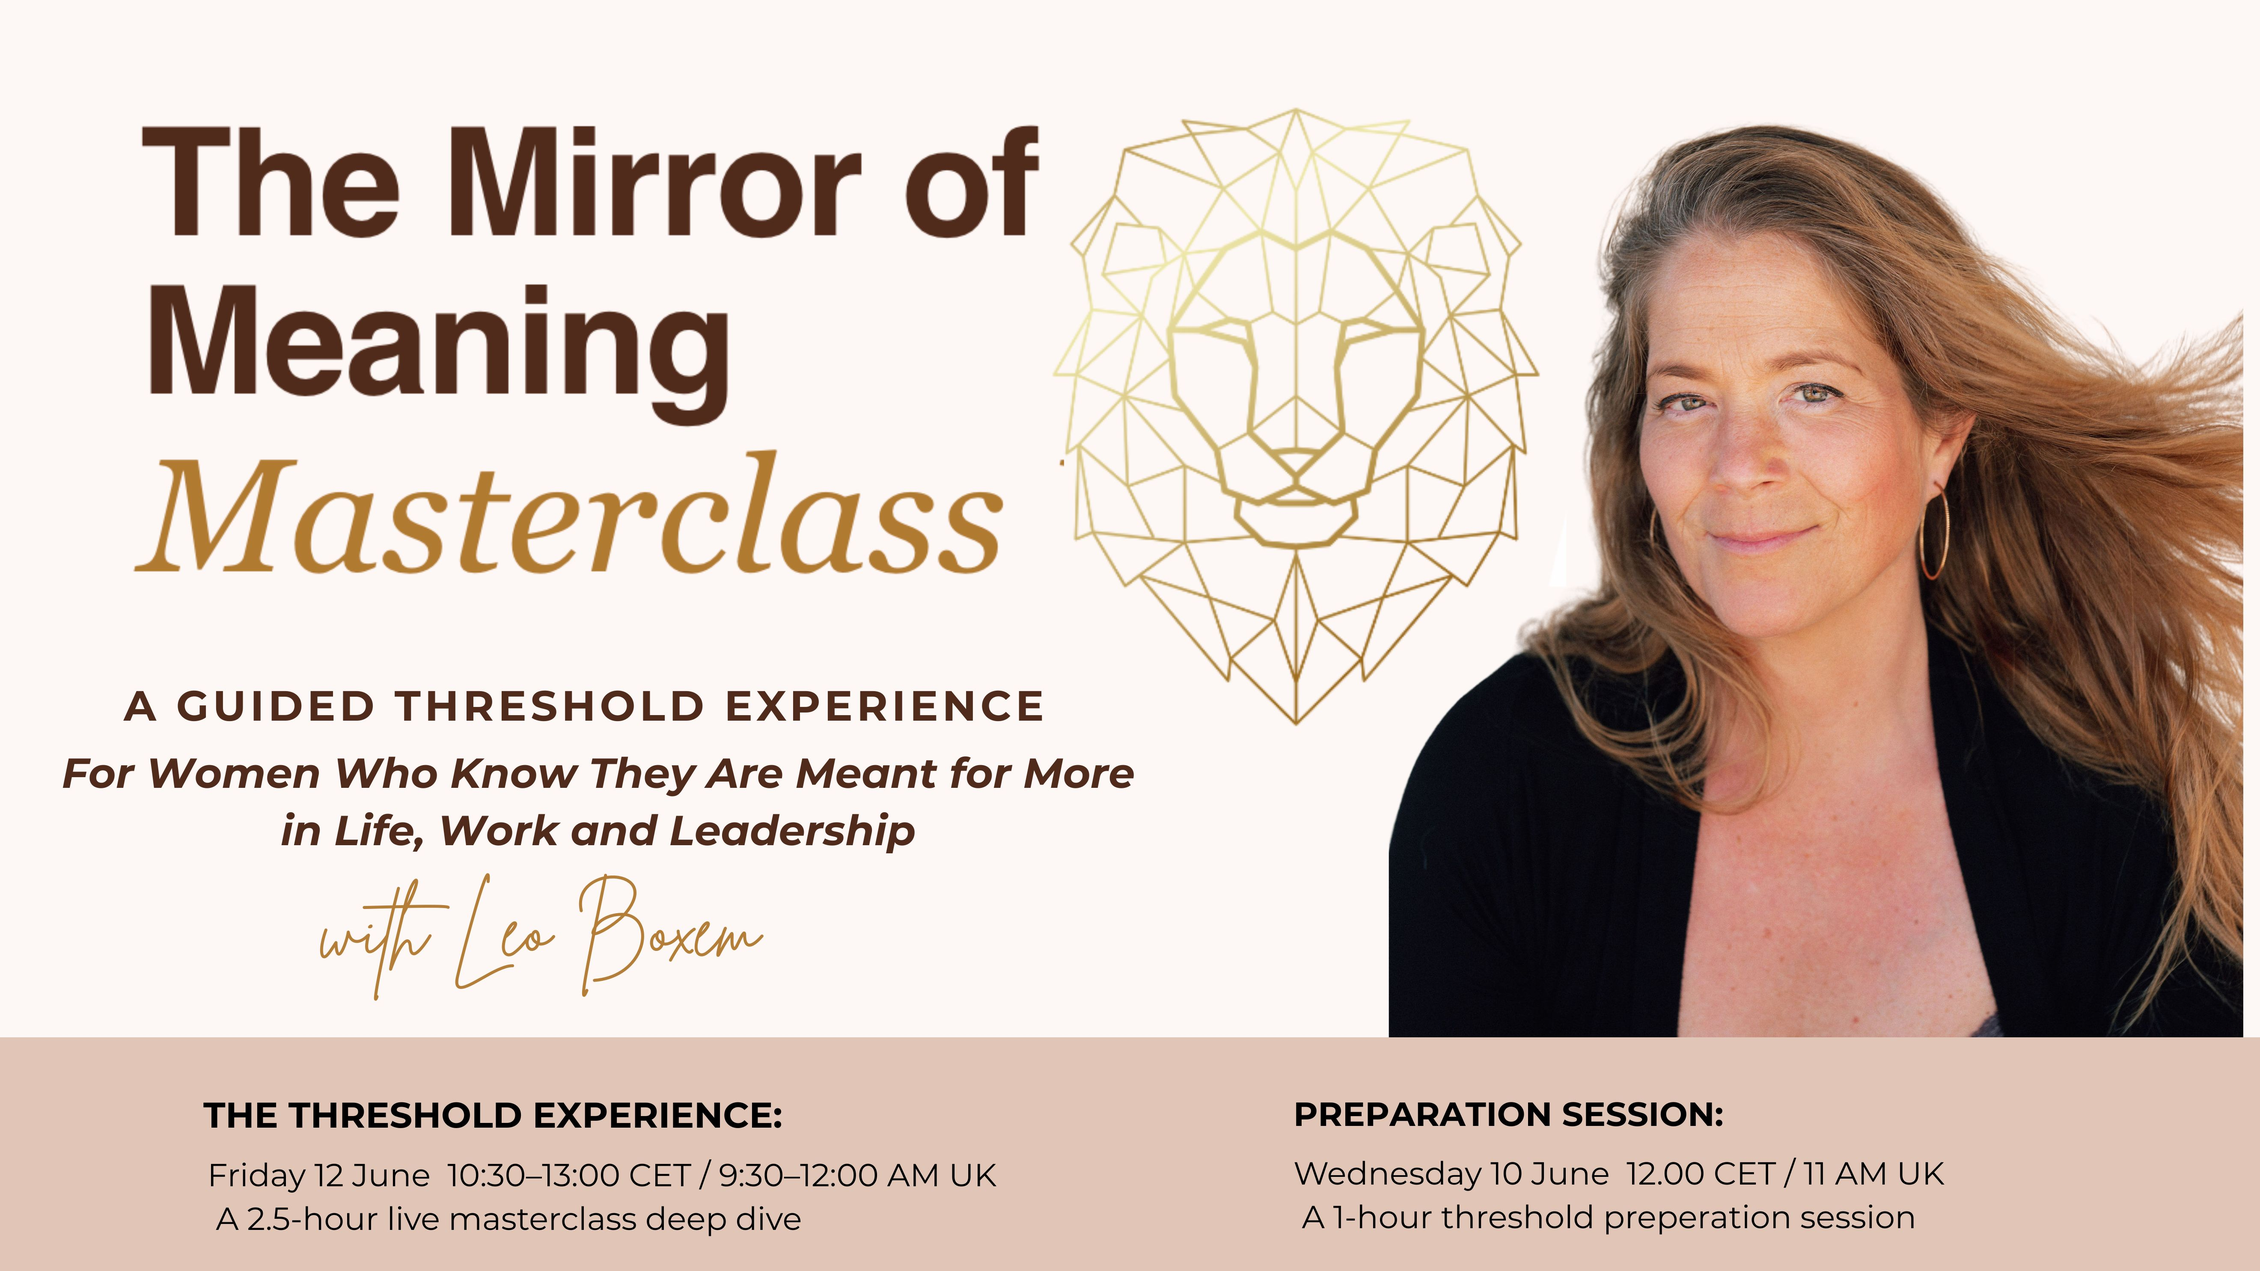
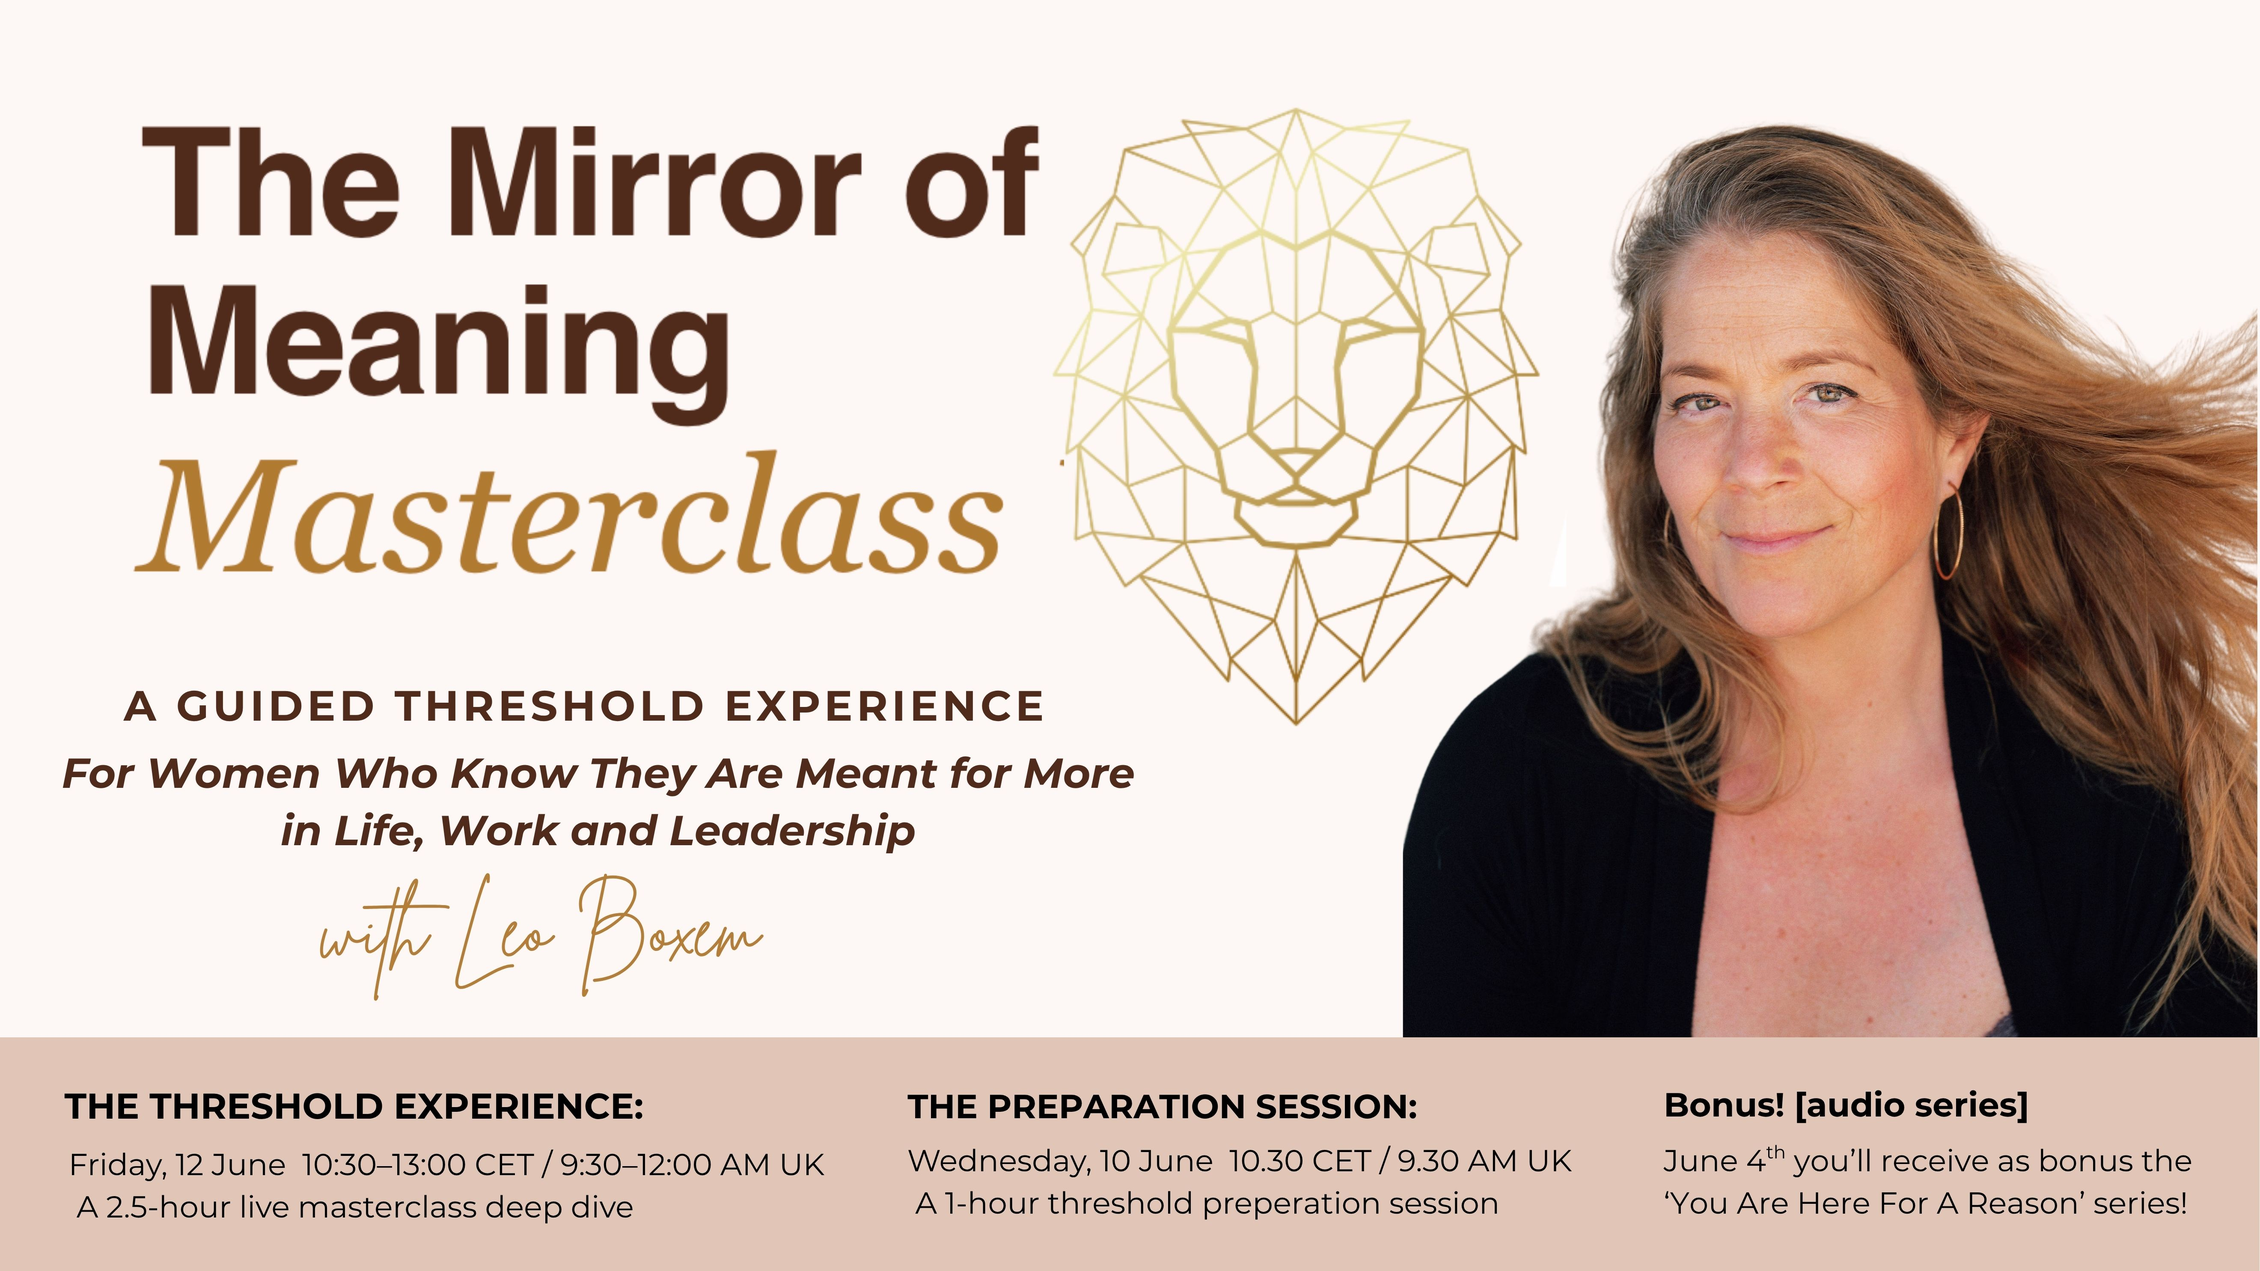
Major update: sessions redesign, hero, turning point, lionheart, FAQ fixes
Sessions:
- Block 1: gold bg (swapped from dark), bigger badge/date/time text
- Block 2: renamed Bonus Session 1, Wed 10 June, 10:30 CET / 9:30 AM UK, updated desc
- Block 3: Bonus Session 2, bg #b98774, Topic: Surprise!, updated texts
- Block 4: Bonus Session 3, bg #8c756a, Surprise Gift!, updated texts
- All timezone separators use /

Hero: eyebrow line added for 'A Guided Threshold Experience with Leo Boxem'
Hero: subtitle combined into one block, 'Not Clearly Knowing What To Do Next'

Turning Point: 'I cannot keep living half-aligned' gets bold display style
Turning Point: closing text gets the box layout, Mirror of Meaning in gold

Inside: 'This is not about blowing up your life' same white font as bold line

Lionheart: lionheart-logo.jpg added under heading, 'Change requires courage' moved above h2 and made bigger/bolder

Your guide: same italic script heading style as Lionheart Moment

S. Kock testimonial: bg #fdf7f5 with dark text
What-coda: bg #b98774 with white text

FAQ: prep session corrected to Wednesday 10 June, 10:30 CET / 9:30 AM UK everywhere
Updated MoM2 Cover.jpg with new dates

diff --git a/mirror-of-meaning-week/index.html b/mirror-of-meaning-week/index.html
@@ -558,10 +558,10 @@
     .threshold-badge {
       display: inline-block;
       font-family: var(--f-head);
-      font-size: 9px; font-weight: 700;
-      letter-spacing: 0.26em; text-transform: uppercase;
-      color: var(--gold-light);
-      border: 1px solid rgba(195,153,80,.4);
+      font-size: 13px; font-weight: 700;
+      letter-spacing: 0.22em; text-transform: uppercase;
+      color: var(--dark-brown);
+      border: 1px solid rgba(80,42,26,.3);
       border-radius: 20px;
       padding: 5px 16px;
       margin-bottom: 20px;
@@ -569,9 +569,9 @@
 
     .threshold-date {
       font-family: var(--f-head);
-      font-size: 10px; font-weight: 600;
-      letter-spacing: 0.2em; text-transform: uppercase;
-      color: rgba(255,255,255,.45);
+      font-size: 14px; font-weight: 700;
+      letter-spacing: 0.16em; text-transform: uppercase;
+      color: var(--dark-brown);
       margin-bottom: 10px;
     }
 
@@ -579,23 +579,23 @@
       font-family: var(--f-display);
       font-size: clamp(22px, 3vw, 38px);
       font-weight: 700;
-      color: var(--white);
+      color: var(--dark-brown);
       line-height: 1.15;
       margin-bottom: 6px;
     }
-    .threshold-title .script { color: var(--gold-light); font-size: 1.1em; }
+    .threshold-title .script { color: var(--dark-brown); opacity: .7; font-size: 1.1em; }
 
     .threshold-time {
       font-family: var(--f-head);
-      font-size: 10px; font-weight: 600;
-      letter-spacing: 0.16em; text-transform: uppercase;
-      color: rgba(195,153,80,.65);
+      font-size: 13px; font-weight: 600;
+      letter-spacing: 0.14em; text-transform: uppercase;
+      color: rgba(80,42,26,.75);
       margin-bottom: 20px;
     }
 
     .threshold-desc {
       font-size: 15px;
-      color: rgba(255,255,255,.78);
+      color: rgba(80,42,26,.85);
       line-height: 1.85;
       max-width: 620px;
       margin-bottom: 28px;
@@ -605,7 +605,7 @@
       font-family: var(--f-serif);
       font-style: italic;
       font-size: clamp(15px, 1.6vw, 17px);
-      color: var(--gold-light);
+      color: var(--dark-brown);
       opacity: .85;
       margin-bottom: 32px;
     }
@@ -1407,16 +1407,16 @@
 
         <div>
           <p class="hero-eyebrow reveal">12 June 2026</p>
+          <p class="hero-eyebrow reveal" style="margin-bottom: 20px; opacity: .75;">A Guided Threshold Experience with Leo Boxem</p>
 
           <h1 class="hero-title reveal d1">The Mirror of Meaning</h1>
           <span class="hero-script reveal d1">Masterclass</span>
 
-          <p class="hero-for reveal d2" style="margin-bottom: 4px; margin-top: 20px;">A Guided Threshold Experience with Leo Boxem</p>
-          <p class="hero-for reveal d2" style="margin-bottom: 4px;">
+          <p class="hero-for reveal d2" style="margin-top: 20px; line-height: 1.7;">
             For Women Who Know They Are Meant for More<br>
-            in Life, Work and Leadership
+            in Life, Work and Leadership,<br>
+            <em style="font-style:italic; color:var(--rose);">Not Clearly Knowing What To Do Next</em>
           </p>
-          <p class="hero-for reveal d2" style="font-style: italic; color: var(--rose); margin-bottom: 24px;">Not Knowing What To Do Next</p>
 
           <div class="reveal d3" style="margin-top: 28px;">
             <p style="font-size: 14px; line-height: 1.85; color: var(--black); margin-bottom: 28px;">This is a guided threshold experience that leads to a recognition of who you are, why you're here — and what your next natural step forward is.</p>
@@ -1465,9 +1465,9 @@
 
       </div>
 
-      <div class="reveal d4" style="margin-top:40px; background:var(--dark-brown); border-radius:12px; padding:32px 36px; text-align:center; max-width:720px; margin-left:auto; margin-right:auto;">
-        <p style="font-family:var(--f-serif); font-style:italic; font-size:clamp(14px,1.5vw,17px); color:rgba(253,247,245,.85); line-height:1.85; margin-bottom:16px;">"Surrender to her drive, knowledge, and skills. Success guaranteed! Fearless and very passionate, Leontine manages to provide each participant with insight, transformation and joy."</p>
-        <cite style="font-family:var(--f-head); font-size:10px; font-weight:700; letter-spacing:0.2em; text-transform:uppercase; color:var(--gold-light); font-style:normal;">— S. Kock</cite>
+      <div class="reveal d4" style="margin-top:40px; background:#fdf7f5; border-radius:12px; padding:32px 36px; text-align:center; max-width:720px; margin-left:auto; margin-right:auto; border:1px solid rgba(178,121,49,.15);">
+        <p style="font-family:var(--f-serif); font-style:italic; font-size:clamp(14px,1.5vw,17px); color:var(--dark-brown); line-height:1.85; margin-bottom:16px;">"Surrender to her drive, knowledge, and skills. Success guaranteed! Fearless and very passionate, Leontine manages to provide each participant with insight, transformation and joy."</p>
+        <cite style="font-family:var(--f-head); font-size:10px; font-weight:700; letter-spacing:0.2em; text-transform:uppercase; color:var(--gold); font-style:normal;">— S. Kock</cite>
       </div>
 
     </div>
@@ -1531,9 +1531,9 @@
           And realize what matters now.</p>
         </div>
 
-        <div class="what-coda reveal d3">
-          <p>This masterclass builds toward one moment.<br>
-          <em>And that moment changes everything.</em></p>
+        <div class="what-coda reveal d3" style="background:#b98774; border-color:rgba(80,42,26,.15);">
+          <p style="color:var(--white);">This masterclass builds toward one moment.<br>
+          <em style="color:var(--white);">And that moment changes everything.</em></p>
         </div>
 
       </div>
@@ -1554,44 +1554,43 @@
       </div>
 
       <!-- MAIN: Threshold Experience -->
-      <div class="threshold-card reveal d1">
+      <div class="threshold-card reveal d1" style="background: var(--gold); border-color: rgba(80,42,26,.25);">
         <span class="threshold-badge">Live Masterclass Intensive</span>
         <div class="threshold-date">Friday 12 June 2026</div>
         <div class="threshold-title">The <span class="script">Threshold</span> Experience</div>
-        <div class="threshold-time">10:30–13:00 CET &nbsp;·&nbsp; 9:30–12:00 AM UK &nbsp;·&nbsp; 2.5 hours live</div>
+        <div class="threshold-time">10:30–13:00 CET / 9:30–12:00 AM UK &nbsp;·&nbsp; 2.5 hours live</div>
         <p class="threshold-desc">Stand before the mirror and realize what your life is asking of you now. This is where everything comes together — not more input, but a real moment of truth. You will walk away with clear vision, a beaming heart and a concrete plan for your next 3 steps.</p>
         <p class="threshold-affirmation">"I see the life that is waiting for me."</p>
-        <!-- TODO: Replace the href below with your Circle signup form URL -->
-        <a href="https://leoboxem.circle.so/mom-signup" class="btn btn-gold">Claim Your Spot — Free</a>
+        <a href="https://leoboxem.circle.so/mom-signup" class="btn btn-fill">Claim Your Spot — Free</a>
       </div>
 
       <!-- 3 supporting sessions -->
       <div class="sessions-row">
 
         <div class="session-card reveal">
-          <div class="session-badge">Preparation Session</div>
-          <div class="session-date">Thursday 11 June 2026</div>
-          <div class="session-time">12:00 CET &nbsp;·&nbsp; 11 AM UK</div>
+          <div class="session-badge">Bonus Session 1</div>
+          <div class="session-date">Wednesday 10 June 2026</div>
+          <div class="session-time">10:30 CET / 9:30 AM UK</div>
           <div class="session-title">Threshold Preparation</div>
-          <p class="session-desc">A 1-hour live session to prepare you for the Masterclass. So you arrive ready — open, grounded and clear on what you want to see.</p>
+          <p class="session-desc">A 1-hour live session to prepare you practically and energetically for the Masterclass. So you arrive ready — open, grounded and clear on what you want to see.</p>
         </div>
 
-        <div class="session-card is-bonus reveal d1">
-          <div class="session-badge bonus">Bonus Session 1</div>
-          <div class="session-date">Monday 15 June 2026</div>
-          <div class="session-time">20:00 CET &nbsp;·&nbsp; 7 PM UK</div>
-          <div class="session-title">Topic to be revealed</div>
-          <p class="session-desc">Included when you sign up for the Mirror of Meaning Masterclass.</p>
-          <p class="session-surprise">Topic: a surprise gift, revealed closer to the date.</p>
+        <div class="session-card reveal d1" style="background:#b98774; border-color:rgba(80,42,26,.15);">
+          <div class="session-badge" style="color:var(--dark-brown);">Bonus Session 2</div>
+          <div class="session-date" style="color:var(--dark-brown);">Monday 15 June 2026</div>
+          <div class="session-time" style="color:rgba(80,42,26,.7); opacity:1;">20:00 CET / 7 PM UK</div>
+          <div class="session-title" style="color:var(--dark-brown);">Topic: Surprise!</div>
+          <p class="session-desc" style="color:rgba(80,42,26,.8);">Included when you sign up for the Mirror of Meaning Masterclass — for deeper integration and to ask your questions.</p>
+          <p class="session-surprise" style="color:var(--dark-brown); opacity:.75;">Topic will be revealed closer to the date.</p>
         </div>
 
-        <div class="session-card is-bonus reveal d2">
-          <div class="session-badge bonus">Bonus Session 2</div>
-          <div class="session-date">Tuesday 16 June 2026</div>
-          <div class="session-time">10:30 CET &nbsp;·&nbsp; 9:30 AM UK</div>
-          <div class="session-title">Topic to be revealed</div>
-          <p class="session-desc">Included when you sign up for the Mirror of Meaning Masterclass.</p>
-          <p class="session-surprise">Topic: a surprise gift, revealed closer to the date.</p>
+        <div class="session-card reveal d2" style="background:#8c756a; border-color:rgba(253,247,245,.15);">
+          <div class="session-badge" style="color:var(--cream);">Bonus Session 3</div>
+          <div class="session-date" style="color:var(--cream);">Tuesday 16 June 2026</div>
+          <div class="session-time" style="color:rgba(253,247,245,.7); opacity:1;">10:30 CET / 9:30 AM UK</div>
+          <div class="session-title" style="color:var(--white);">Surprise Gift!</div>
+          <p class="session-desc" style="color:rgba(253,247,245,.85);">Included when you sign up for the Mirror of Meaning Masterclass — for deeper integration and to ask your questions.</p>
+          <p class="session-surprise" style="color:rgba(253,247,245,.7);">Topic will be revealed closer to the date.</p>
         </div>
 
       </div>
@@ -1681,14 +1680,12 @@
             <li>Where you stopped trusting yourself</li>
           </ul>
 
-          <div class="turning-realize reveal d3">
-            "I cannot keep living half-aligned."
-          </div>
+          <p class="reveal d3" style="font-family:var(--f-display); font-size:clamp(18px,2.2vw,26px); font-weight:700; color:var(--dark-brown); line-height:1.35; margin-bottom:24px;">"I cannot keep living half-aligned."</p>
 
-          <p class="turning-closing reveal d3" style="color:var(--black);">
-            That moment is what I call: <em style="font-family:var(--f-serif); font-style:italic; color:var(--black);">The Mirror of Meaning.</em><br>
+          <div class="turning-realize reveal d3">
+            That moment is what I call: <em style="font-family:var(--f-serif); font-style:italic; color:var(--gold);">The Mirror of Meaning.</em><br>
             And once you see it — you cannot unsee it.
-          </p>
+          </div>
         </div>
 
         <div class="reveal d1">
@@ -1732,7 +1729,7 @@
       </ul>
 
       <div class="inside-coda reveal d3">
-        <p class="inside-note">This is not about blowing up your life.</p>
+        <p class="inside-bold">This is not about blowing up your life.</p>
         <p class="inside-bold">It is about moving forward with <span class="script">honesty and ease.</span></p>
       </div>
 
@@ -1747,13 +1744,17 @@
     <div class="wrap">
       <div class="lionheart-inner">
 
-        <p class="reveal" style="text-align:center; font-family:var(--f-script); font-style:italic; font-size:clamp(30px,4vw,52px); font-weight:500; color:var(--gold); margin-bottom:16px; line-height:1.1;">The Lionheart Moment</p>
+        <p class="reveal" style="text-align:center; font-family:var(--f-script); font-style:italic; font-size:clamp(30px,4vw,52px); font-weight:500; color:var(--gold); margin-bottom:12px; line-height:1.1;">The Lionheart Moment</p>
 
-        <h2 class="section-h lionheart-h reveal d1">
+        <div class="reveal d1" style="text-align:center; margin-bottom:24px;">
+          <img src="../images/lionheart-logo.jpg" alt="Lionheart" style="width:72px; height:72px; object-fit:contain; display:inline-block; opacity:.85;">
+        </div>
+
+        <p class="reveal d1" style="text-align:center; font-family:var(--f-display); font-size:clamp(20px,2.5vw,30px); font-weight:800; color:var(--dark-brown); margin-bottom:20px; line-height:1.2;">Change requires courage.</p>
+
+        <h2 class="section-h lionheart-h reveal d2">
           Because insight alone is <span class="script">not enough.</span>
         </h2>
-
-        <p class="lionheart-sub reveal d2">Change requires courage.</p>
 
         <ul class="courage-list reveal d2">
           <li>The courage to stop hiding</li>
@@ -1792,7 +1793,7 @@
   <section id="about-leo">
     <div class="about-leo-inner">
       <div>
-        <p class="about-label reveal" style="font-size:16px; letter-spacing:0.12em; opacity:1; margin-bottom:12px;">Your guide</p>
+        <p class="reveal" style="font-family:var(--f-script); font-style:italic; font-size:clamp(30px,4vw,52px); font-weight:500; color:var(--gold); margin-bottom:12px; line-height:1.1;">Your guide</p>
         <p class="about-name reveal d1">Leo Boxem</p>
         <p class="about-bio reveal d2">Twelve years ago I was diagnosed with leukemia. In that moment it became clear: I had not yet lived the life I was here to live. That realization became the foundation of everything I do. I guide women through the moments where something in life is asking to be lived more honestly — not through pressure, but through clarity.</p>
       </div>
@@ -2001,7 +2002,7 @@
             <div class="faq-a-inner">
               <p>By signing up for the Mirror of Meaning Masterclass, you automatically unlock access to the exclusive <em>'You Are Here for a Reason'</em> audio series.</p>
               <p>This audio series will be released 1 week before the Masterclass: <strong>Thursday 4 June</strong> — it will be sent straight to your inbox.</p>
-              <p>The day before the Masterclass, <strong>Thursday 11 June, 12:00 CET / 11 AM UK</strong>, I will host a live Preparation Session — practical and energetic preparation so you are all set and ready to get the most out of the main Masterclass on 12 June.</p>
+              <p>The day before the Masterclass, <strong>Wednesday 10 June, 10:30 CET / 9:30 AM UK</strong>, I will host a live Preparation Session — practical and energetic preparation so you are all set and ready to get the most out of the main Masterclass on 12 June.</p>
               <p>A replay will be available straight after. Joining live is not mandatory but warmly advised!</p>
             </div>
           </div>
@@ -2015,7 +2016,7 @@
               <ol>
                 <li><strong>Friday 12 June</strong> — the main Masterclass. This is the one.</li>
                 <li><strong>The Audio Series (4 June)</strong> — even if you listen while walking, driving, or cooking.</li>
-                <li><strong>The live Preparation Session (11 June)</strong> — practical and energetic warm-up.</li>
+                <li><strong>The live Preparation Session (10 June)</strong> — practical and energetic warm-up.</li>
               </ol>
             </div>
           </div>
